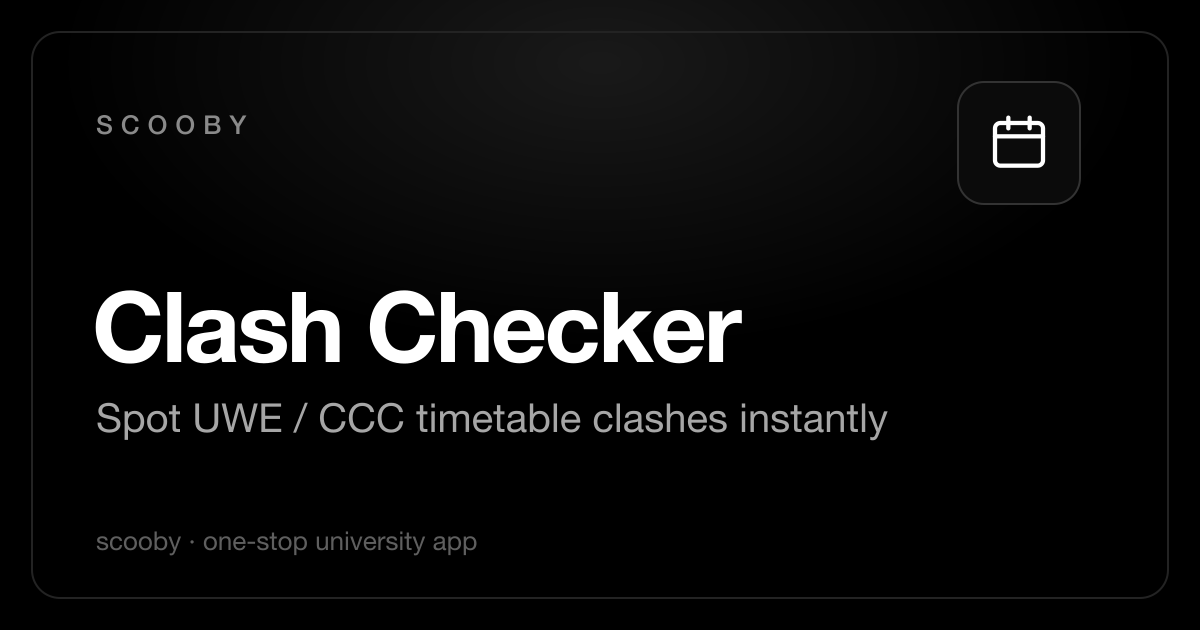
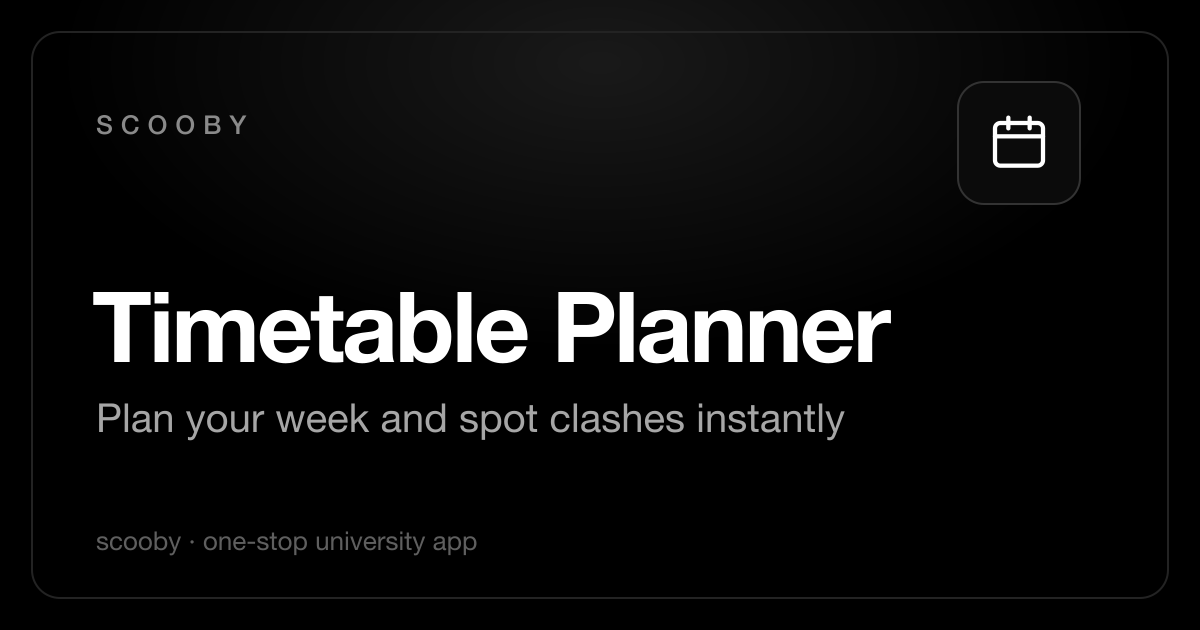
Rename the clash checker to Timetable Planner
Covers the homepage card, the page title (which drives the OG and Twitter
titles), and the social share image, regenerated with npm run gen:og. The
copy widens from "UWE or CCC electives" to include major electives, since
the page handles those now.

The /collision-checker URL stays as it is, so existing links keep working.

Claude-Session: https://claude.ai/code/session_01H3yhdbuq9BNg2FRnr7tij2

Changed region(s): [[0.0617, 0.4524, 0.74, 0.6032], [0.0617, 0.6333, 0.74, 0.6937]]

diff --git a/src/routes/+page.svelte b/src/routes/+page.svelte
@@ -14,9 +14,9 @@
 
 	const features: Feature[] = [
 		{
-			title: "UWE / CCC Clash Checker",
+			title: "Timetable Planner",
 			description:
-				"Load your batch timetable, add UWE or CCC electives, and instantly spot clashes. Export as an image or to your calendar.",
+				"Load your batch timetable, add UWE, CCC or major electives, and instantly spot clashes. Export as an image or to your calendar.",
 			href: "/collision-checker",
 			icon: "calendar",
 			tag: "Timetable",
@@ -96,7 +96,7 @@
 
 <Seo
 	title="Scooby"
-	description="Scooby is a one-stop university app — check UWE/CCC timetable clashes, view your exam schedule, browse campus clubs, and more."
+	description="Scooby is a one-stop university app — plan your timetable and spot clashes, view your exam schedule, browse campus clubs, and more."
 	image="default"
 />
 

diff --git a/src/routes/collision-checker/+page.svelte b/src/routes/collision-checker/+page.svelte
@@ -4,8 +4,8 @@
 </script>
 
 <Seo
-	title="UWE / CCC Clash Checker"
-	description="Enter your batch to visualize your timetable, add UWE or CCC electives to spot clashes, and export as an image or to your calendar."
+	title="Timetable Planner"
+	description="Enter your batch to visualize your timetable, add UWE, CCC or major electives to spot clashes, and export as an image or to your calendar."
 	image="collision-checker"
 />
 
